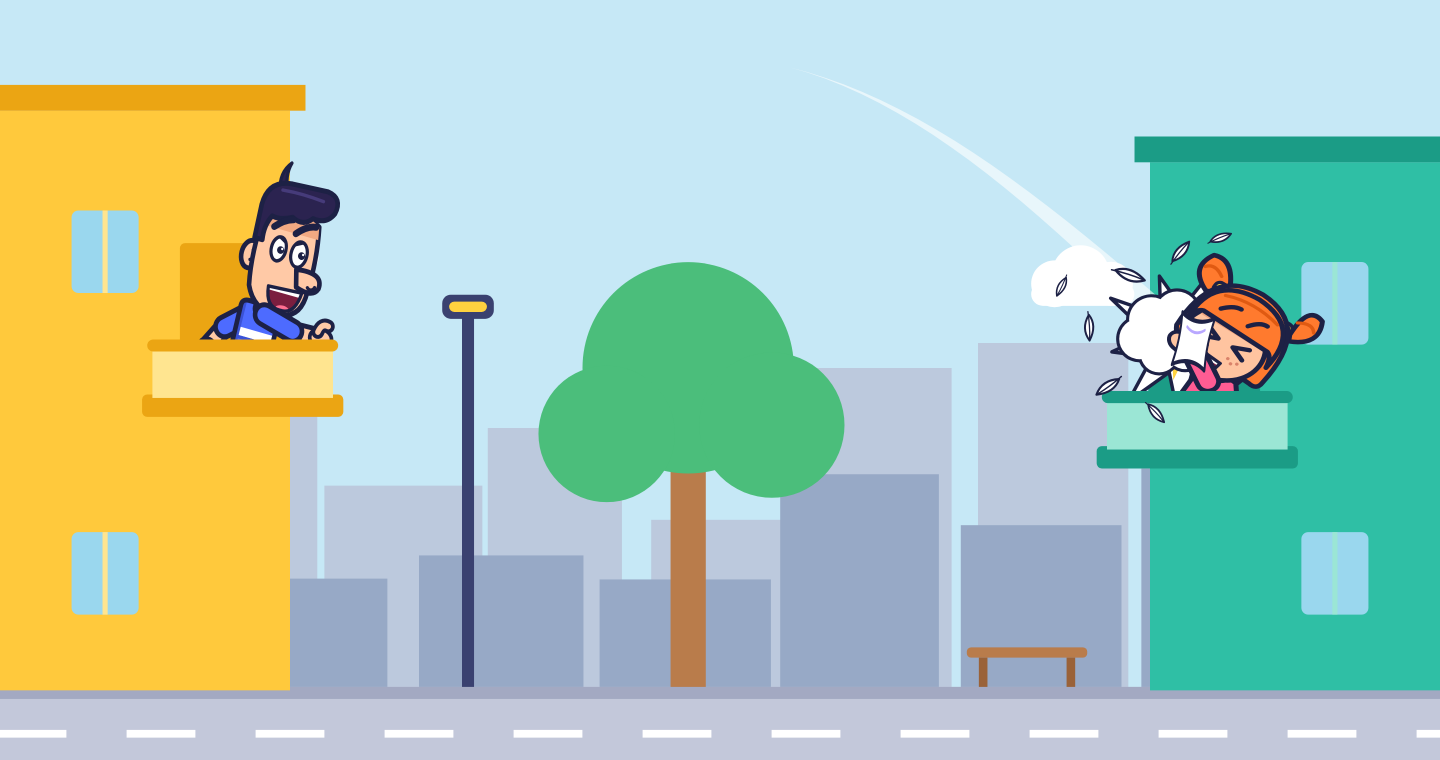
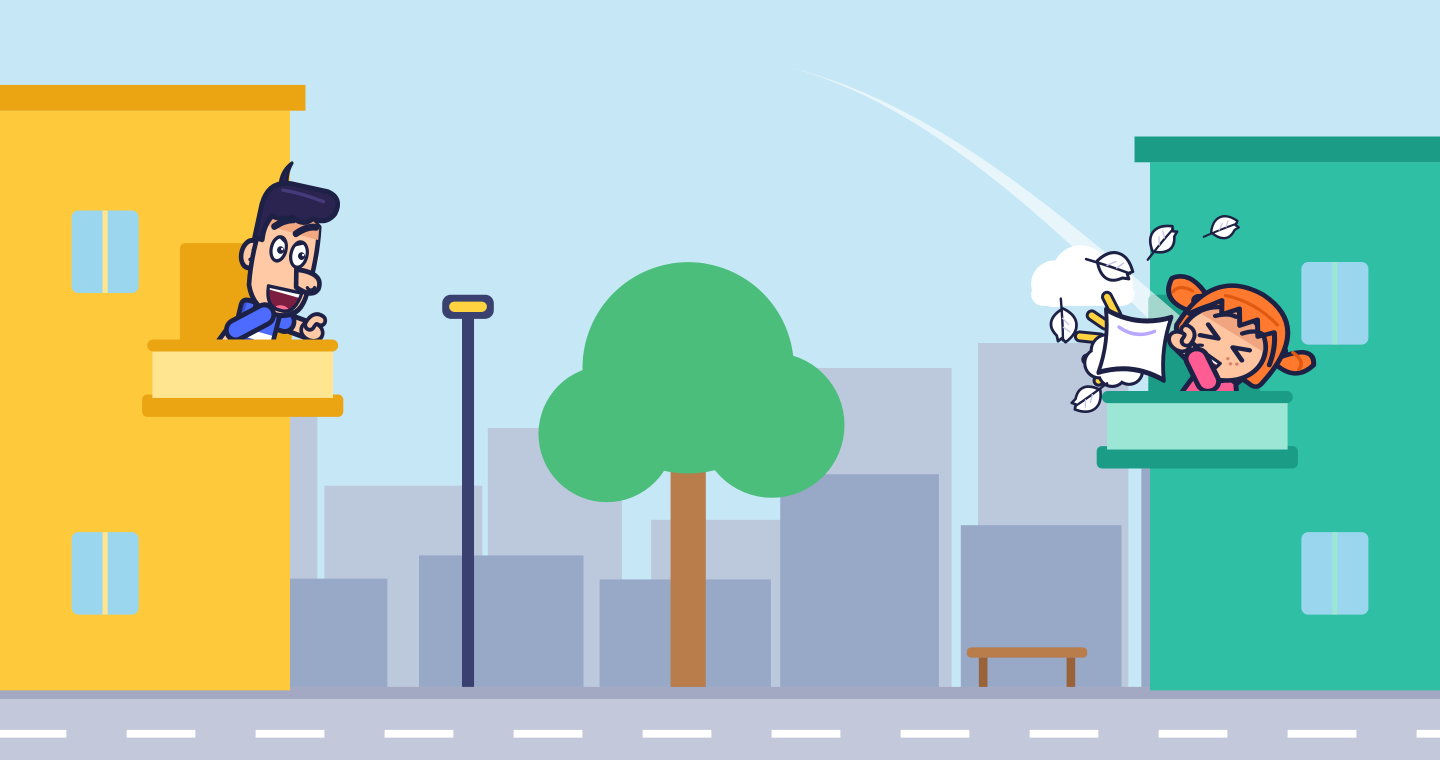
Návrh rigu: oprava po design-eye (ofina Radky, scared, pěst, náraz, pírka)

Changed region(s): [[0.7188, 0.2724, 0.9375, 0.5447], [0.125, 0.3934, 0.25, 0.4539]]

diff --git a/design/rig-navrh/rig.js b/design/rig-navrh/rig.js
@@ -74,7 +74,7 @@
     idle:   { lid: 0.18, brow: 0, tilt: 0, mouth: "smile", eye: "o" },
     aim:    { lid: 0.42, lid2: 0.75, brow: 2, tilt: 5, mouth: "tongue", eye: "o" },
     tense:  { lid: 0.22, brow: 4, tilt: 9, mouth: "grit", eye: "o", pupil: 0.8 },
-    scared: { lid: 0, brow: -8, tilt: -6, mouth: "o", eye: "wide" },
+    scared: { lid: 0, brow: 8, tilt: -9, mouth: "o", eye: "wide" },
     hit:    { brow: 6, tilt: -9, mouth: "ouch", eye: "shut" },
     weak:   { lid: 0.48, brow: -2, tilt: -8, mouth: "wavy", eye: "o", pupil: 0.7, sweat: 1 },
     ko:     { brow: -4, tilt: -6, mouth: "ko", eye: "x" },
@@ -157,7 +157,7 @@
     } else {
       // culíky nahoře do stran (pružiny), zadní se kreslí za hlavou
       for (var sdx = -1; sdx <= 1; sdx += 2) {
-        c.save(); c.translate(sdx * 34 + 2, -34); c.rotate(sdx * 0.55 + (sdx < 0 ? h1 : h2));
+        c.save(); c.translate(sdx * 42 + 2, -14); c.rotate(sdx * 1.2 + (sdx < 0 ? h1 : h2));
         c.beginPath(); c.moveTo(-9, 2); c.quadraticCurveTo(sdx * 6, -34, sdx * 26, -26); c.quadraticCurveTo(sdx * 38, -4, sdx * 12, 8); c.closePath(); paint(c, R.hair, OL);
         c.beginPath(); c.moveTo(sdx * 8, -12); c.quadraticCurveTo(sdx * 20, -20, sdx * 26, -12); line(c, IL, R.hair2);
         rrect(c, -8, -7, 16, 12, 5); paint(c, R.trim, IL);
@@ -170,7 +170,9 @@
       // stín pod ofinou
       c.save(); ell(c, 4, 10, 38, 34); c.clip(); c.fillStyle = R.skin2; c.fillRect(-40, -30, 90, 26); c.restore();
       // ofina: rovný střih se třemi zoubky
-      c.beginPath(); c.moveTo(-42, 8); c.quadraticCurveTo(-48, -44, 2, -46); c.quadraticCurveTo(50, -44, 46, 4); c.quadraticCurveTo(44, -6, 38, -8); c.lineTo(-34, -6); c.quadraticCurveTo(-40, -4, -42, 8); c.closePath(); paint(c, R.hair, OL);
+      var BG = function () { c.moveTo(47, 2); c.quadraticCurveTo(42, -8, 36, -16); c.lineTo(30, -26); c.lineTo(22, -14); c.lineTo(12, -28); c.lineTo(2, -14); c.lineTo(-8, -28); c.lineTo(-18, -14); c.lineTo(-28, -26); c.quadraticCurveTo(-38, -14, -43, 4); };
+      c.beginPath(); c.moveTo(-43, 4); c.quadraticCurveTo(-48, -44, 2, -46); c.quadraticCurveTo(50, -44, 47, 2); c.quadraticCurveTo(42, -8, 36, -16); c.lineTo(30, -26); c.lineTo(22, -14); c.lineTo(12, -28); c.lineTo(2, -14); c.lineTo(-8, -28); c.lineTo(-18, -14); c.lineTo(-28, -26); c.quadraticCurveTo(-38, -14, -43, 4); c.closePath(); fill(c, R.hair);
+      c.beginPath(); BG(); line(c, OL);
       c.beginPath(); c.moveTo(-26, -34); c.quadraticCurveTo(4, -42, 30, -32); line(c, IL, R.hair2);
     }
     // oči, obočí, nos, ústa
@@ -178,13 +180,13 @@
     if (f.cream) { creamFace(c, K); }
     else {
       eyeAt(c, R, K, ex1, ey, rx * 0.92, ry * 0.95, E, f, -1); eyeAt(c, R, K, ex2, ey, rx, ry, E, f, 1);
-      var by = K ? ey - ry - 7 : -17; // Radka: obočí kreslené přes ofinu
+      var by = K ? ey - ry - 7 : -8; // Radka: obočí kreslené přes ofinu
       brow(c, K, ex1 - 1, by, K ? 17 : 15, E, -1); brow(c, K, ex2 + 1, by, K ? 18 : 16, E, 1);
     }
     if (K) { // velký nos, přesahuje obrys
       c.beginPath(); c.moveTo(18, 4); c.quadraticCurveTo(46, 0, 44, 16); c.quadraticCurveTo(40, 26, 22, 20); c.closePath(); paint(c, R.skin, OL); c.beginPath(); c.arc(36, 15, 4, 0.2, 2.4); line(c, IL);
     } else {
-      ell(c, 21, 21, 6, 4.6); paint(c, R.skin2, IL);
+      c.beginPath(); c.moveTo(19, 22); c.quadraticCurveTo(27, 26, 21, 31); line(c, IL);
       for (var fr = 0; fr < 3; fr++) { circ(c, -18 + fr * 5, 20 + (fr % 2) * 3, 1.6); fill(c, "#D9826A"); circ(c, 30 + fr * 4, 20 + (fr % 2) * 3, 1.6); fill(c, "#D9826A"); }
     }
     if (E.blush) { c.globalAlpha = 0.55 * E.blush; ell(c, K ? -12 : -20, K ? 16 : 26, 8, 5); fill(c, "#FF7C8A"); ell(c, K ? 26 : 34, K ? 26 : 26, 7, 4.5); fill(c, "#FF7C8A"); c.globalAlpha = 1; }

diff --git a/design/rig-navrh/fx.js b/design/rig-navrh/fx.js
@@ -2,9 +2,10 @@
   // pírko: zahnutý list s brkem; s = délka, rot = natočení, flip = zrcadlo
   function feather(c, x, y, s, rot, col) {
     c.save(); c.translate(x, y); c.rotate(rot);
-    c.beginPath(); c.moveTo(-s * 0.5, 0); c.quadraticCurveTo(-s * 0.1, -s * 0.34, s * 0.5, -s * 0.06); c.quadraticCurveTo(s * 0.05, s * 0.3, -s * 0.5, 0); c.closePath();
-    paint(c, col || P.white, Math.max(1.6, s * 0.075));
-    c.beginPath(); c.moveTo(-s * 0.62, s * 0.04); c.quadraticCurveTo(-s * 0.05, -s * 0.06, s * 0.42, -s * 0.06); line(c, Math.max(1.2, s * 0.05));
+    c.beginPath(); c.moveTo(-s * 0.46, 0); c.bezierCurveTo(-s * 0.3, -s * 0.5, s * 0.1, -s * 0.62, s * 0.5, -s * 0.2); c.lineTo(s * 0.4, -s * 0.08); c.lineTo(s * 0.5, s * 0.02); c.lineTo(s * 0.34, s * 0.08); c.bezierCurveTo(s * 0.1, s * 0.4, -s * 0.2, s * 0.34, -s * 0.46, 0); c.closePath();
+    paint(c, col || P.white, Math.max(2, s * 0.08));
+    c.beginPath(); c.moveTo(-s * 0.74, s * 0.1); c.quadraticCurveTo(-s * 0.1, -s * 0.04, s * 0.46, -s * 0.12); line(c, Math.max(1.8, s * 0.07));
+    c.beginPath(); c.moveTo(-s * 0.18, -s * 0.02); c.lineTo(-s * 0.02, -s * 0.22); c.moveTo(s * 0.08, -s * 0.08); c.lineTo(s * 0.18, -s * 0.28); line(c, Math.max(1.2, s * 0.04), "#C9C3E8");
     c.restore();
   }
   // obláček „puf“: shluk kruhů jednou obrysovou linkou (nejdřív obrys všech, pak výplň), u = 0..1 průběh
@@ -17,18 +18,16 @@
     c.fillStyle = P.ink; for (var j = 0; j < pts.length; j++) { circ(c, pts[j][0], pts[j][1], pts[j][2] + 3.6); c.fill(); }
     c.fillStyle = col || P.white; for (j = 0; j < pts.length; j++) { circ(c, pts[j][0], pts[j][1], pts[j][2]); c.fill(); }
   }
-  // impact frame: hvězda nárazu na 2–4 snímky (u 0..1), za postavou
+  // náraz: 5 krátkých čárek kolem místa dopadu (jen v obloučku od směru letu), u 0..1 – čárky se oddalují a zkracují
   function impact(c, x, y, r, u, rot) {
-    var k = u < 0.35 ? 1 : 1 - (u - 0.35) / 0.65; if (k <= 0) return;
+    var k = u < 0.2 ? 1 : 1 - (u - 0.2) / 0.8; if (k <= 0) return;
     c.save(); c.translate(x, y); c.rotate(rot || 0);
-    var pts = 9;
-    c.beginPath();
-    for (var i = 0; i < pts * 2; i++) { var a = i / (pts * 2) * TAU, q = i % 2 ? 0.42 : 0.86 + 0.24 * hash(i, 3); c.lineTo(Math.cos(a) * r * q * (0.7 + 0.3 * k), Math.sin(a) * r * q * (0.7 + 0.3 * k)); }
-    c.closePath(); c.globalAlpha = k; paint(c, P.white, 4);
-    c.beginPath();
-    for (i = 0; i < pts * 2; i++) { a = i / (pts * 2) * TAU + 0.18, q = i % 2 ? 0.22 : 0.5; c.lineTo(Math.cos(a) * r * q, Math.sin(a) * r * q); }
-    c.closePath(); fill(c, P.yellow);
-    c.globalAlpha = 1; c.restore();
+    for (var i = -2; i <= 2; i++) {
+      var a = Math.PI + i * 0.5, r0 = r * (0.62 + 0.5 * (1 - k)), r1 = r0 + r * 0.42 * k * (i % 2 ? 0.8 : 1);
+      var x0 = Math.cos(a) * r0, y0 = Math.sin(a) * r0, x1 = Math.cos(a) * r1, y1 = Math.sin(a) * r1;
+      seg(c, x0, y0, x1, y1, 11 * k + 3, P.ink); seg(c, x0, y0, x1, y1, 6.4 * k + 0.6, P.yellow);
+    }
+    c.restore();
   }
   // stopa letu: zužující se pruh za předmětem (pts od nejstaršího po nejnovější)
   function trail(c, pts, w, col, alpha) {
